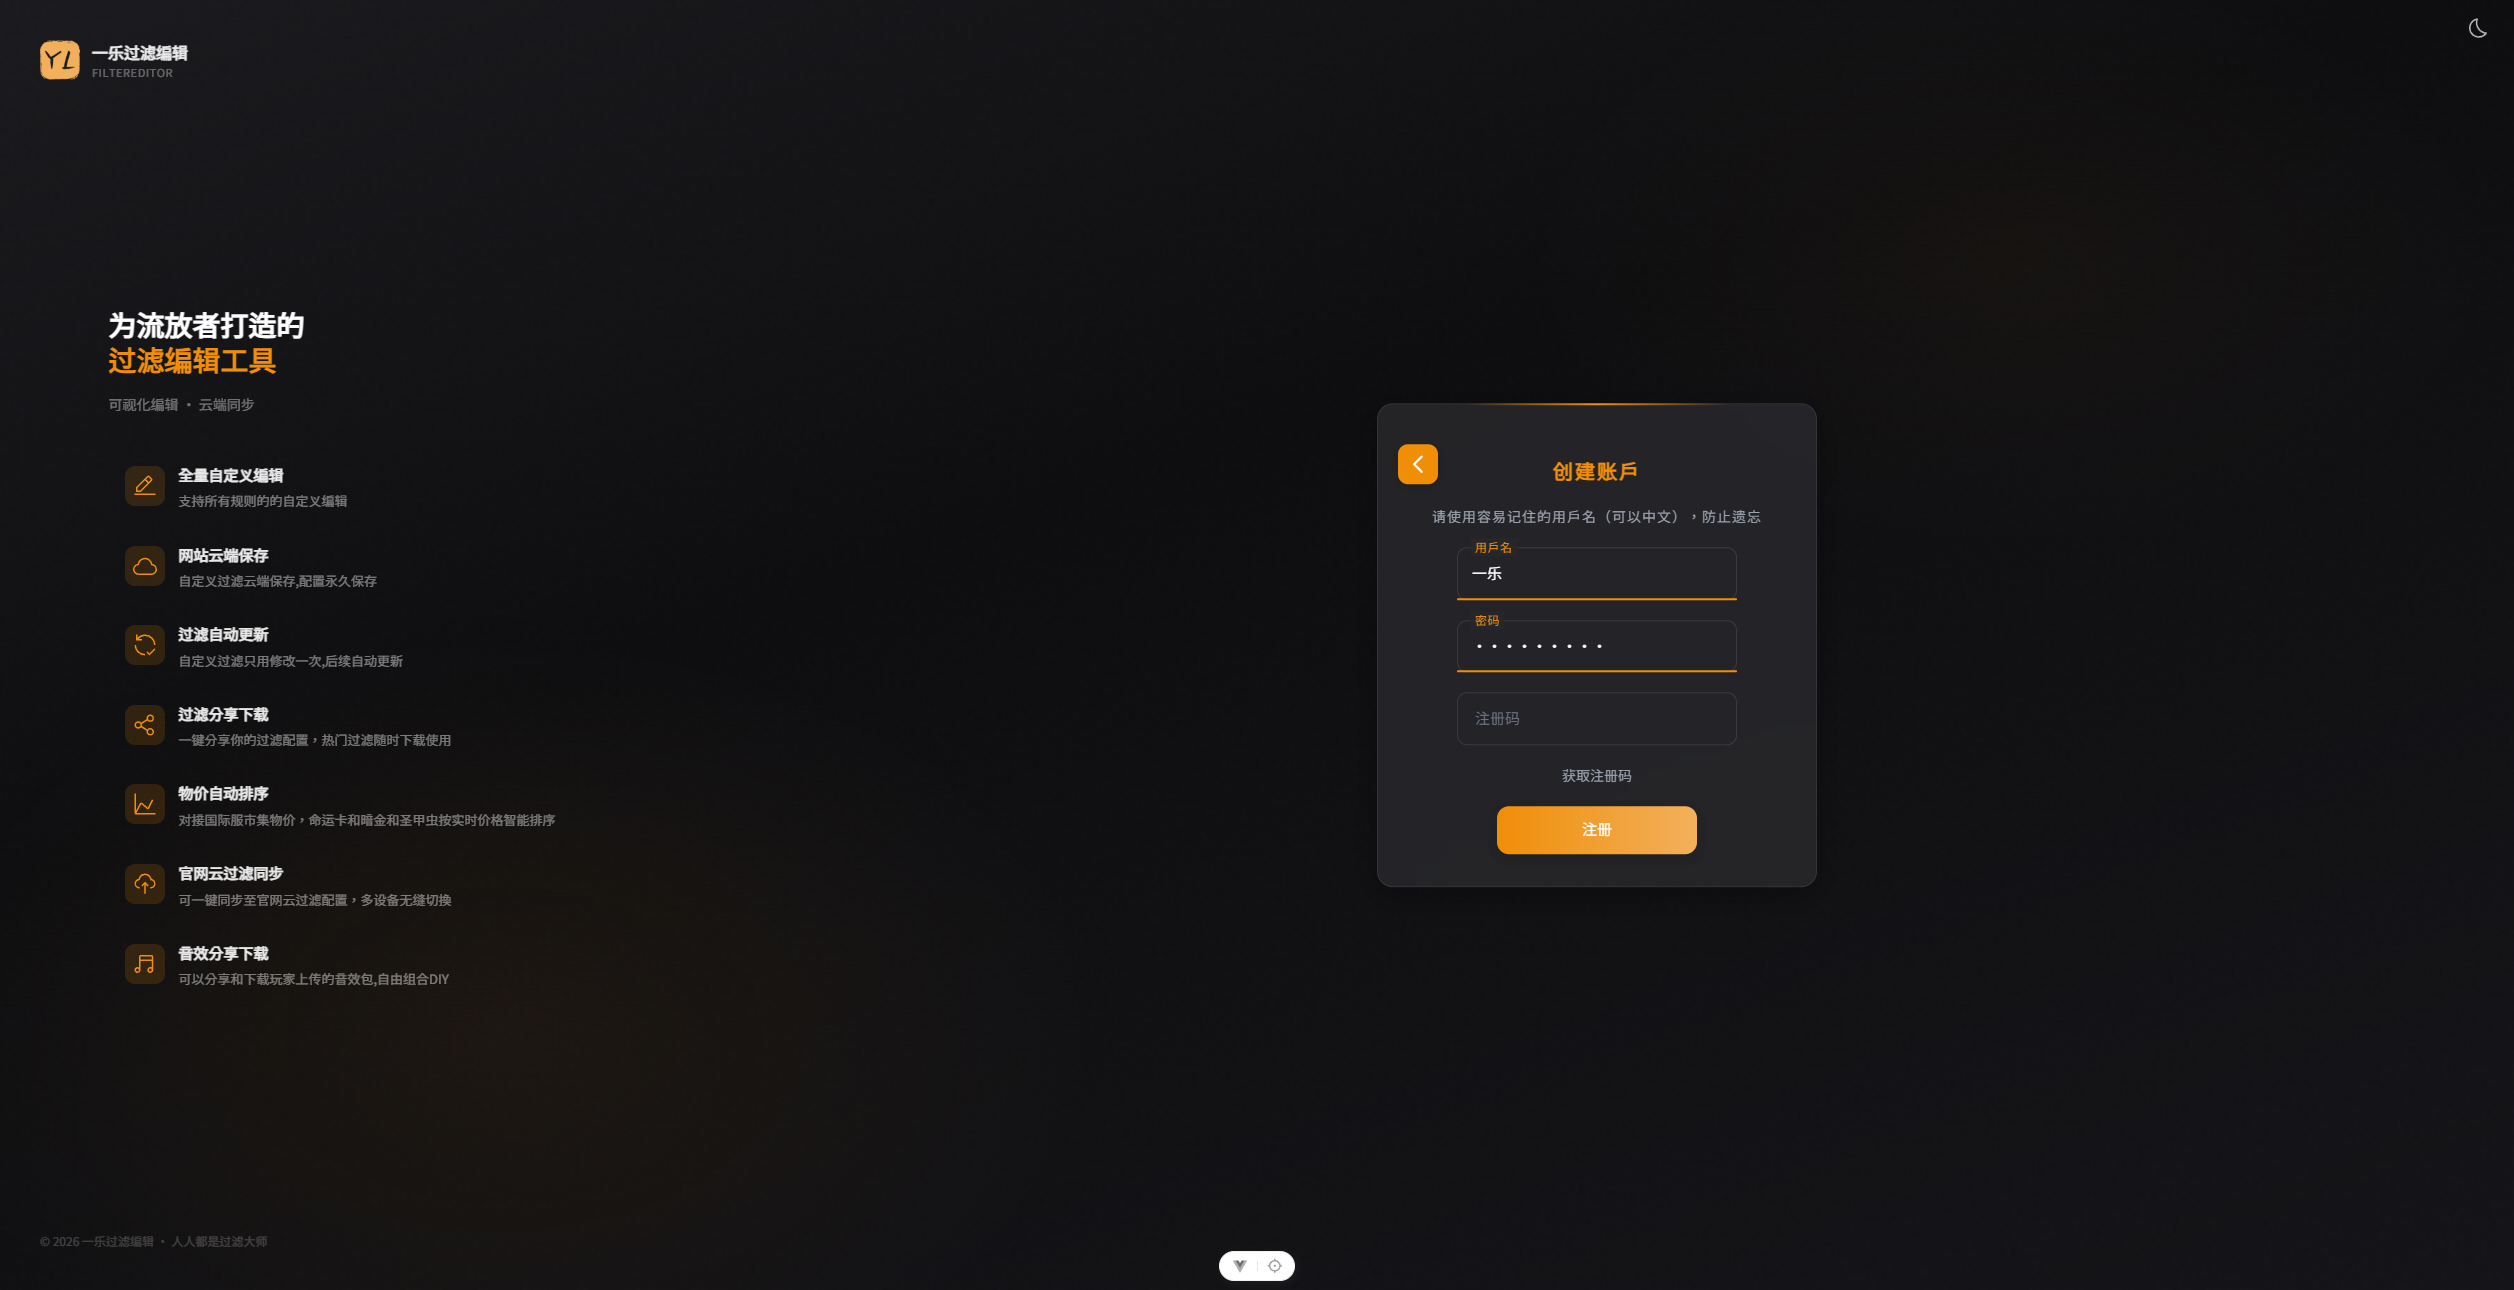
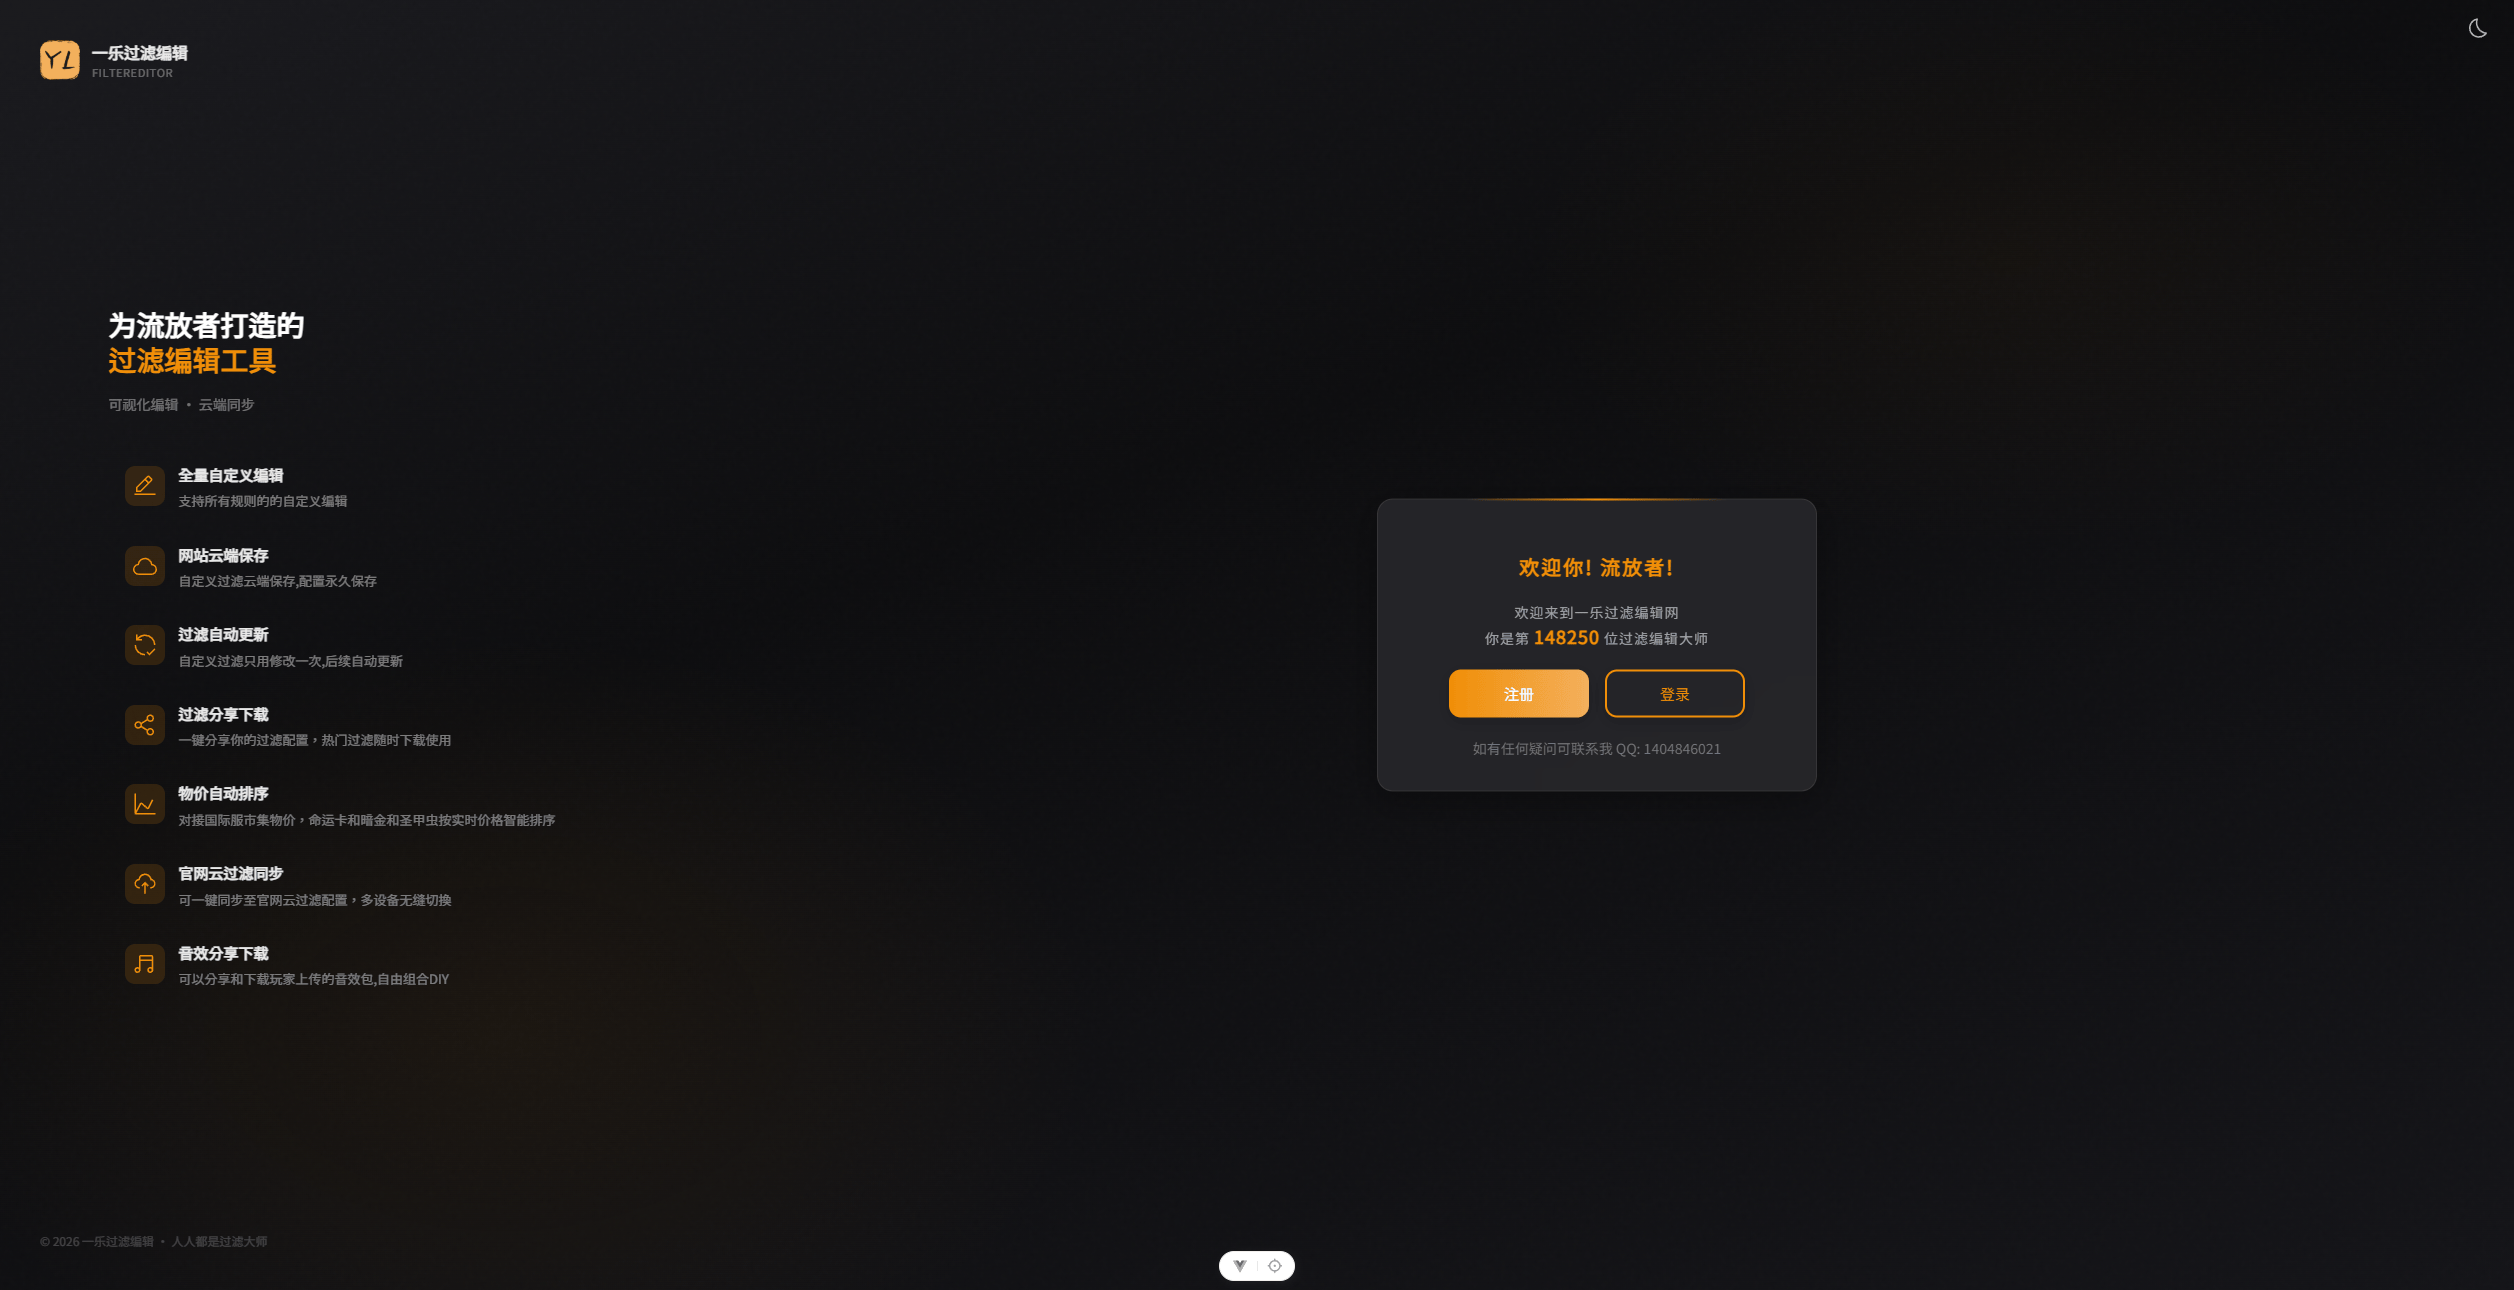
📝docs: 下载过滤

Changed region(s): [[0.5585, 0.4341, 0.6826, 0.6822], [0.5585, 0.3411, 0.6826, 0.4031], [0.5585, 0.5891, 0.5895, 0.6202]]

diff --git a/docs/.vitepress/theme/styles/theme.css b/docs/.vitepress/theme/styles/theme.css
@@ -2,25 +2,28 @@
 
 /* Hero 图片大小 */
 .VPHero .VPImage {
-  max-width: 250px;
-  max-height: 250px;
-}
-.VPHero .VPImage img {
-  width: 100%;
-  height: 100%;
-  object-fit: contain;
-}
-@media (max-width: 768px) {
-  .VPHero .VPImage {
-    max-width: 120px;
-    max-height: 120px;
-  }
+    max-width: 250px;
+    max-height: 250px;
 }
 
-/* Hero 图片发光效果 */
+.VPHero .VPImage img {
+    width: 100%;
+    height: 100%;
+    object-fit: contain;
+}
+
+@media (max-width: 768px) {
+    .VPHero .VPImage {
+        max-width: 120px;
+        max-height: 120px;
+    }
+}
+
+
 :root {
-  --vp-home-hero-image-background-image: linear-gradient(135deg, #FFE0B2 25%, #FFCC80 50%, #FFB74D 75%);
-  --vp-home-hero-image-filter: blur(72px);
+    /* Hero 图片发光效果 */
+    --vp-home-hero-image-background-image: linear-gradient(135deg, #FFE0B2 25%, #FFCC80 50%, #FFB74D 75%);
+    --vp-home-hero-image-filter: blur(72px);
 }
 
 body {
@@ -29,26 +32,31 @@ body {
 }
 
 .dark {
-  --vp-home-hero-image-background-image: linear-gradient(135deg, #8B6914 25%, #B8860B 50%, #DAA520 75%);
+    --vp-home-hero-image-background-image: linear-gradient(135deg, #8B6914 25%, #B8860B 50%, #DAA520 75%);
 }
 
 /* 明暗切换：switch 样式改为图标按钮 */
 .VPSwitchAppearance {
-  width: 22px !important;
+    width: 22px !important;
 }
 
 .VPSwitchAppearance .check {
-  transform: none !important;
+    transform: none !important;
 }
 
 /* 防止页面切换时 aside 抖动 */
 .VPDoc .content-container {
-  min-height: 80vh;
-  transition: min-height 0.2s ease;
+    min-height: 80vh;
+    transition: min-height 0.2s ease;
 }
 
 /* 标题色为主色 */
 .VPDoc h1,
 .VPDoc h2 {
-  color:var(--tk-theme-color) !important;
+    color: var(--tk-theme-color) !important;
+}
+
+/* 自定义容器标题字体大小 */
+.custom-block-title {
+    font-size: 16px;
 }

diff --git a/docs/.vitepress/teekConfig.ts b/docs/.vitepress/teekConfig.ts
@@ -76,7 +76,7 @@ export const teekConfig = defineTeekConfig({
                         { label: "珊瑚粉", value: "coral-pink", color: "#ff6b6b" },
                         { label: "天空蓝", value: "sky-blue", color: "#00bbf9" },
                         { label: "皇家蓝", value: "royal-blue", color: "#2563EB" },
-                        { label: "石板灰", value: "slate-gray", color: "#708090" },
+                        { label: "静谧黄", value: "silent-yellow", color: "#E8B576" },  
                         { label: "樱花粉", value: "pink", color: "#f15bb5" },
                         { label: "薄荷绿", value: "mint-green", color: "#10B981" },
                         { label: "落日橙", value: "orange-red", color: "#ff9e6b" },

diff --git a/docs/02.过滤编辑/02.基础编辑/01.下载过滤.md b/docs/02.过滤编辑/02.基础编辑/01.下载过滤.md
@@ -1,0 +1,39 @@
+---
+title: 下载过滤
+date: 2026-05-19 21:13:52
+permalink: /edit/download
+categories:
+  - 过滤编辑
+tags:
+  - 过滤编辑
+---
+
+可在网页上下载对应档位的预设过滤使用
+
+## 第一步
+
+进入网站后,选择 <mark>【POE1】下载和编辑</mark> ,如图所示
+
+![选择下载和编辑](/assets/edit/选择下载和编辑.png)
+
+## 第二步
+
+在左侧的预设过滤列表中,选择对应档位的预设过滤,选择后点击 <mark>下载过滤和音效</mark> 按钮,如图所示
+
+![选择预设过滤](/assets/edit/选择预设过滤.png)
+
+## 第三步
+
+选择要下载的音效版本后,点击下载 <mark>过滤文件</mark> 和 <mark>音效文件夹</mark> 压缩包,如图所示
+
+::: tip 温馨提示
+1. 如果选择下载 <mark>系统音效版</mark> ,则无需下载音效压缩包
+
+2. <mark>正常模式</mark> 和 <mark>纯净模式</mark> 的区别为,在 <mark>纯净模式</mark> 下, 按alt 不会显示被屏蔽的物品(原理是被屏蔽的物品透明度设为0,字体拉最小,导致看不到,但是鼠标还是可以点到)
+:::
+
+![下载过滤和音效](/assets/edit/下载过滤和音效.png)
+
+## 第四步
+
+参照[本地过滤使用#第二步](/base/client#第二步)章节，将下载的过滤文件和音效文件夹解压到 <mark>过滤文件中</mark> 中即可

diff --git a/docs/01.过滤基础/02.基础使用/02.云过滤使用.md b/docs/01.过滤基础/02.基础使用/02.云过滤使用.md
@@ -42,7 +42,7 @@ tags:
 ![选择云过滤](/assets/base/选择云过滤.png)
 
 ::: tip 注意!!!
-正常情况下,云过滤默认只支持系统音效,如果你下载的过滤是自定义音效的话,请注意仍要将压缩包里的 <mark>音效文件夹</mark> 放到 [本地过滤使用](/base/client#第三步) 章节中的 <mark>过滤文件夹</mark>中, 否则会提示报错 `无效的声音路径`
+正常情况下,云过滤默认只支持系统音效,如果你下载的过滤是自定义音效的话,请注意仍要将压缩包里的 <mark>音效文件夹</mark> 放到 [本地过滤使用#第三步](/base/client#第三步) 章节中的 <mark>过滤文件夹</mark>中, 否则会提示报错 `无效的声音路径`
 :::
 
 

diff --git a/docs/01.过滤基础/02.基础使用/01.本地过滤使用.md b/docs/01.过滤基础/02.基础使用/01.本地过滤使用.md
@@ -18,6 +18,8 @@ tags:
 
 ### 第一步
 
+前往[下载最新的懒人压缩包](/download)
+
 在 <mark>论坛</mark> 或者 <mark>群文件</mark> 下载好完整的过滤压缩包
 
 ### 第二步
@@ -45,3 +47,5 @@ tags:
 至此,就可以成功使用本地过滤了
 
 ## 通过编辑网站下载 <Badge type="tip" text="喜欢自定义的推荐" />
+
+请参考[下载过滤](/edit/download)章节
